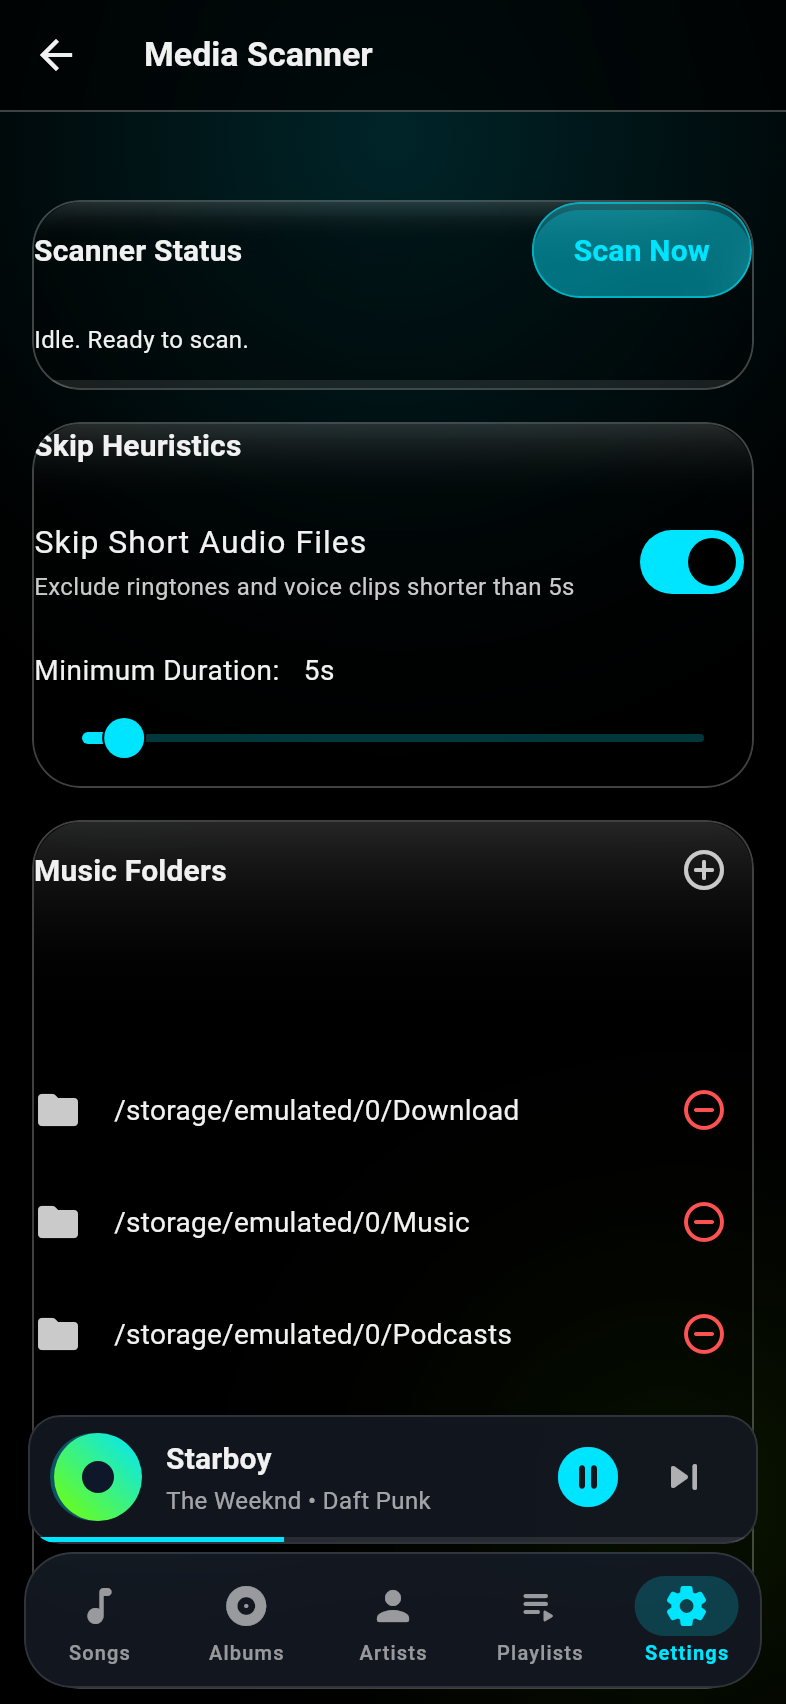
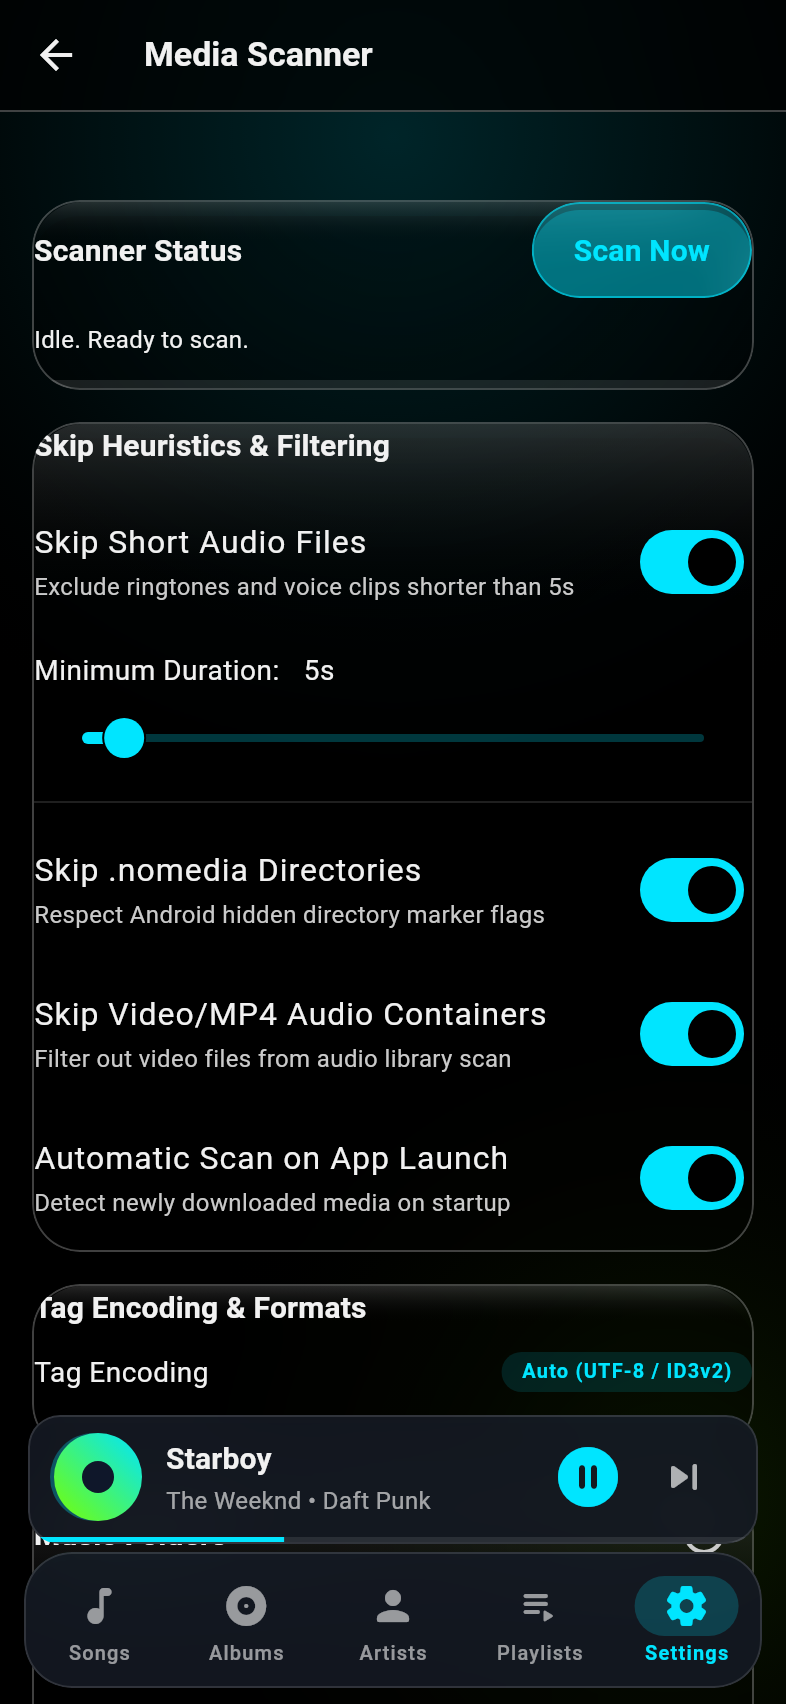
docs(screenshots): add comprehensive UI screenshots 29-36 for all app settings screens

Changed region(s): [[0.0305, 0.591, 0.9771, 0.8398], [0.0305, 0.4354, 0.9771, 0.5599], [0.3053, 0.2488, 0.4885, 0.2799]]

diff --git a/test/helpers/generate_ui_screenshots_test.dart b/test/helpers/generate_ui_screenshots_test.dart
@@ -524,6 +524,110 @@ void main() {
       filename: '28_wear_os_companion.png',
     );
 
+    // 3.19 Auto & Wearable Settings (Phase 13)
+    await _captureWidget(
+      tester: tester,
+      widget: ProviderScope(
+        child: MaterialApp(
+          debugShowCheckedModeBanner: false,
+          theme: darkTheme,
+          home: const AutoWearableSettingsScreen(),
+        ),
+      ),
+      filename: '29_auto_wearable_settings.png',
+    );
+
+    // 3.20 About & Audiophile Specs Screen (Phase 9)
+    await _captureWidget(
+      tester: tester,
+      widget: ProviderScope(
+        child: MaterialApp(
+          debugShowCheckedModeBanner: false,
+          theme: darkTheme,
+          home: const AboutSettingsScreen(),
+        ),
+      ),
+      filename: '30_about_settings.png',
+    );
+
+    // 3.21 Album Art & Covers Cache Settings (Phase 9)
+    await _captureWidget(
+      tester: tester,
+      widget: ProviderScope(
+        child: MaterialApp(
+          debugShowCheckedModeBanner: false,
+          theme: darkTheme,
+          home: const AlbumArtSettingsScreen(),
+        ),
+      ),
+      filename: '31_album_art_settings.png',
+    );
+
+    // 3.22 Gesture & Headset Controls Settings (Phase 9)
+    await _captureWidget(
+      tester: tester,
+      widget: ProviderScope(
+        child: MaterialApp(
+          debugShowCheckedModeBanner: false,
+          theme: darkTheme,
+          home: const ControlSettingsScreen(),
+        ),
+      ),
+      filename: '32_control_settings.png',
+    );
+
+    // 3.23 Lock Screen & Notifications Settings (Phase 9)
+    await _captureWidget(
+      tester: tester,
+      widget: ProviderScope(
+        child: MaterialApp(
+          debugShowCheckedModeBanner: false,
+          theme: darkTheme,
+          home: const NotificationsSettingsScreen(),
+        ),
+      ),
+      filename: '33_notifications_settings.png',
+    );
+
+    // 3.24 Power Saving & Audio Focus Settings (Phase 9)
+    await _captureWidget(
+      tester: tester,
+      widget: ProviderScope(
+        child: MaterialApp(
+          debugShowCheckedModeBanner: false,
+          theme: darkTheme,
+          home: const PowerSavingSettingsScreen(),
+        ),
+      ),
+      filename: '34_power_saving_settings.png',
+    );
+
+    // 3.25 Privacy & Storage Backup Settings (Phase 9)
+    await _captureWidget(
+      tester: tester,
+      widget: ProviderScope(
+        child: MaterialApp(
+          debugShowCheckedModeBanner: false,
+          theme: darkTheme,
+          home: const PrivacyStorageSettingsScreen(),
+        ),
+      ),
+      filename: '35_privacy_storage_settings.png',
+    );
+
+    // 3.26 Metadata & Lyrics Provider Settings (Phase 9)
+    await _captureWidget(
+      tester: tester,
+      widget: ProviderScope(
+        child: MaterialApp(
+          debugShowCheckedModeBanner: false,
+          theme: darkTheme,
+          home: const MetadataLyricsSettingsScreen(),
+        ),
+      ),
+      filename: '36_metadata_lyrics_settings.png',
+    );
+
     // =========================================================================
     // 4. Multi-Theme Variations (Daylight Light Mode & Sakura Pink Preset)
     // =========================================================================
@@ -570,7 +674,7 @@ void main() {
       tester: tester,
       widget: const ProviderScope(child: NexaPlayerApp()),
       filename: '17_desktop_layout.png',
-      size: const Size(1000 * 2.0, 650 * 2.0),
+      size: const Size(1200 * 2.0, 800 * 2.0),
     );
   });
 }

diff --git a/lib/features/settings/presentation/widgets/settings_tiles.dart b/lib/features/settings/presentation/widgets/settings_tiles.dart
@@ -441,36 +441,42 @@ class SettingsSelectorTile<T> extends StatelessWidget {
                 ],
               ),
             ),
-            Container(
-              padding: const EdgeInsets.symmetric(
-                horizontal: 10,
-                vertical: 4,
-              ),
-              decoration: BoxDecoration(
-                color: colorScheme.primary.withOpacity(0.12),
-                borderRadius: BorderRadius.circular(GlassTokens.radiusSmall),
-                border: Border.all(
-                  color: colorScheme.primary.withOpacity(0.25),
-                  width: 0.8,
+            Flexible(
+              child: Container(
+                padding: const EdgeInsets.symmetric(
+                  horizontal: 10,
+                  vertical: 4,
                 ),
-              ),
-              child: Row(
-                mainAxisSize: MainAxisSize.min,
-                children: [
-                  Text(
-                    displayLabel,
-                    style: AppTypography.labelSmall.copyWith(
-                      color: colorScheme.primary,
-                      fontWeight: FontWeight.w600,
+                decoration: BoxDecoration(
+                  color: colorScheme.primary.withOpacity(0.12),
+                  borderRadius: BorderRadius.circular(GlassTokens.radiusSmall),
+                  border: Border.all(
+                    color: colorScheme.primary.withOpacity(0.25),
+                    width: 0.8,
+                  ),
+                ),
+                child: Row(
+                  mainAxisSize: MainAxisSize.min,
+                  children: [
+                    Flexible(
+                      child: Text(
+                        displayLabel,
+                        style: AppTypography.labelSmall.copyWith(
+                          color: colorScheme.primary,
+                          fontWeight: FontWeight.w600,
+                        ),
+                        maxLines: 1,
+                        overflow: TextOverflow.ellipsis,
+                      ),
                     ),
-                  ),
-                  const SizedBox(width: 4),
-                  Icon(
-                    Icons.unfold_more_rounded,
-                    size: 14,
-                    color: colorScheme.primary.withOpacity(0.7),
-                  ),
-                ],
+                    const SizedBox(width: 4),
+                    Icon(
+                      Icons.unfold_more_rounded,
+                      size: 14,
+                      color: colorScheme.primary.withOpacity(0.7),
+                    ),
+                  ],
+                ),
               ),
             ),
           ],
